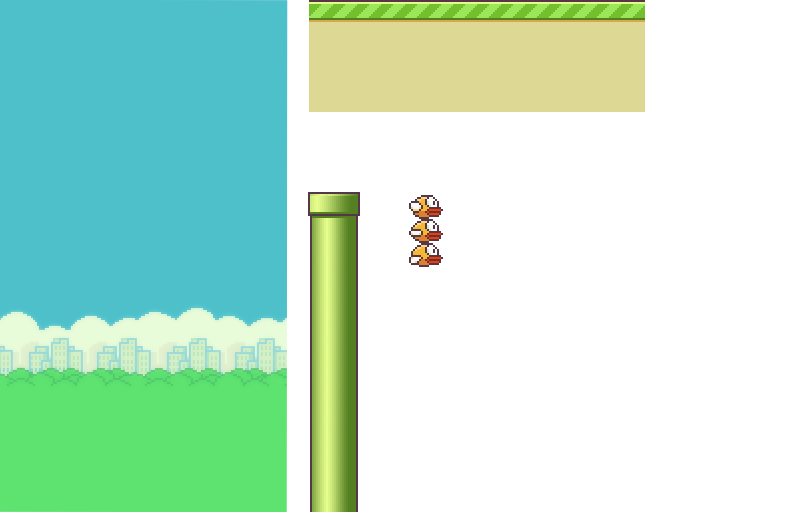
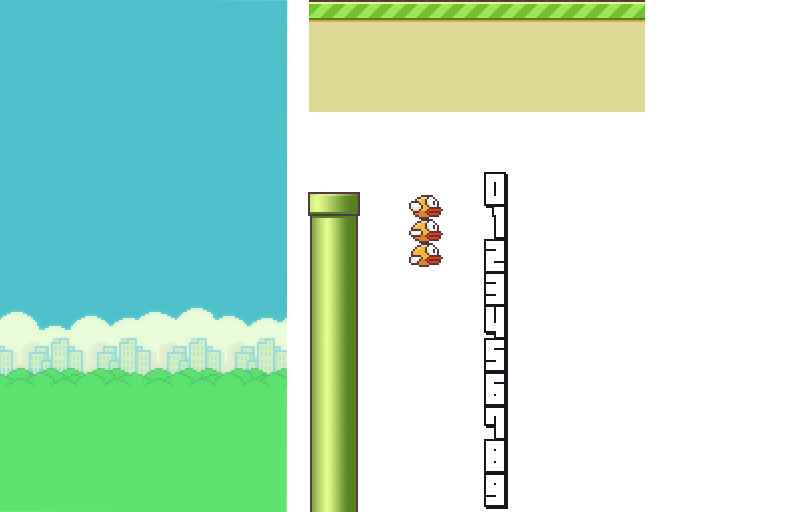
feat: added score to the screen and score counting

Changed region(s): [[0.5938, 0.3438, 0.6562, 1.0]]

diff --git a/Entities/PipeManager.cs b/Entities/PipeManager.cs
@@ -16,6 +16,8 @@ public class PipeManager(Rectangle bounds, int spaceBetweenPipes, TextureRegion 
 
     public event Action OnPipeCollision;
 
+    public event Action OnScore;
+
     public int QuantityOfPipes { get => _existingPipes.Count;  }
 
     private TimeSpan _elpasedTimeBetweenGenerators = TimeSpan.Zero;
@@ -38,13 +40,21 @@ public class PipeManager(Rectangle bounds, int spaceBetweenPipes, TextureRegion 
 
         if(pipe.UpPipeBoundingBox.X == pipe.Width * -1)
         {
-            _existingPipes.Dequeue().OnBirdColliding -= HandleBirdColliding;
+            var pipeRemoved = _existingPipes.Dequeue();
+
+            pipeRemoved.OnBirdPassthrough -= HandleBirdPassthrough;
+            pipeRemoved.OnBirdColliding -= HandleBirdColliding;
         }
     }
 
     private void HandleBirdColliding()
     {
         OnPipeCollision.Invoke();
+    }
+
+    private void HandleBirdPassthrough()
+    {
+        OnScore.Invoke();
     }
 
     public void Update(GameTime gameTime)
@@ -63,6 +73,8 @@ public class PipeManager(Rectangle bounds, int spaceBetweenPipes, TextureRegion 
         var pipe = _pipeGenerator.Generate();
 
         pipe.OnBirdColliding += HandleBirdColliding;
+
+        pipe.OnBirdPassthrough += HandleBirdPassthrough;
 
         _existingPipes.Enqueue(pipe);
         _elpasedTimeBetweenGenerators = _elpasedTimeBetweenGenerators - _intervalBetweenGenerations;

diff --git a/MainGame.cs b/MainGame.cs
@@ -17,6 +17,7 @@ public class MainGame : Game
     public Bird _bird;
     private PipeManager _pipeManager;
     public bool _pause = false;
+    private Score _score;
 
     public static InputManager InputManager { get; private set; }
 
@@ -59,6 +60,7 @@ public class MainGame : Game
         _bird = new Bird(atlas.CreateAnimatedSprite("bird").Animation);
         _base = new Base(atlas.GetRegion("base"), Window.ClientBounds);
         _bird.Position = GetRectangleCenter(Window.ClientBounds);
+        _score = new Score(Content.Load<SpriteFont>("Flappy"));
         
         var pipeRegion = atlas.GetRegion("pipe");
 
@@ -67,6 +69,14 @@ public class MainGame : Game
         _pipeManager.OnPipeCollision += () =>
         {
             _pause = true;
+        };
+
+        _pipeManager.OnScore += () =>
+        {
+            if(!_pause)
+            {
+                _score.Increment();
+            }
         };
     }
 
@@ -92,7 +102,7 @@ public class MainGame : Game
     }
 
     protected override void Draw(GameTime gameTime)
-    {
+    { 
         GraphicsDevice.Clear(Color.Black);
         
         _spriteBatch.Begin();
@@ -104,6 +114,8 @@ public class MainGame : Game
         _pipeManager.DrawPipes(_spriteBatch);
 
         _base.Draw(_spriteBatch);
+
+        _score.Draw(_spriteBatch, Window.ClientBounds);
 
         _spriteBatch.End();
 

diff --git a/Entities/Pipes.cs b/Entities/Pipes.cs
@@ -13,7 +13,11 @@ public class Pipes
     
     private Vector2 _upPipePosition;
 
+    public bool AlreadyGone { get; private set; }
+
     public event Action OnBirdColliding;
+
+    public event Action OnBirdPassthrough;
 
     public int Width
     {
@@ -45,6 +49,13 @@ public class Pipes
             OnBirdColliding.Invoke();
             return;
         }
+
+        if(!AlreadyGone && IsAfter(bird.Position))
+        {
+            OnBirdPassthrough.Invoke();
+            AlreadyGone = true;
+            return;
+        }
     }
 
     public Rectangle UpPipeBoundingBox
@@ -61,6 +72,11 @@ public class Pipes
         {
             return new Rectangle((int)_downPipePosition.X, (int)_downPipePosition.Y, _region.Width, _region.Height);
         }
+    }
+
+    public bool IsAfter(Vector2 position)
+    {
+        return position.X > _upPipePosition.X + _region.Width;
     }
 
     public void Draw(SpriteBatch spriteBatch)

diff --git a/Entities/Score.cs b/Entities/Score.cs
@@ -1,0 +1,30 @@
+using FlappyBird.Lib;
+using Microsoft.Xna.Framework;
+using Microsoft.Xna.Framework.Graphics;
+using System.Collections.Generic;
+using System.Linq;
+
+namespace FlappyBird.Entities;
+
+public class Score
+{
+    public SpriteFont Font { get; private set; }
+
+    public int Amount { get; private set; } = 0;
+
+    public Score(SpriteFont font) {
+        Font = font;
+    }
+
+    public void Increment()
+    {
+        Amount++;
+    }
+
+    public void Draw(SpriteBatch _spriteBatch, Rectangle destination)
+    { 
+        Vector2 textMiddlePoint = Font.MeasureString(Amount.ToString()) * 0.5f;
+
+        _spriteBatch.DrawString(Font, Amount.ToString(), new Vector2(destination.Width * 0.5f, destination.Height / 8), Color.White, 0f, textMiddlePoint, new Vector2(2, 2), SpriteEffects.None, 0f);
+    }
+}
